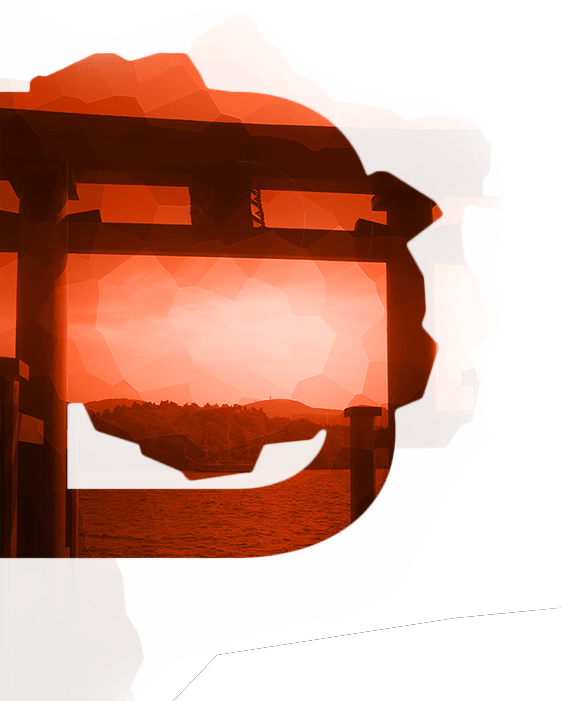
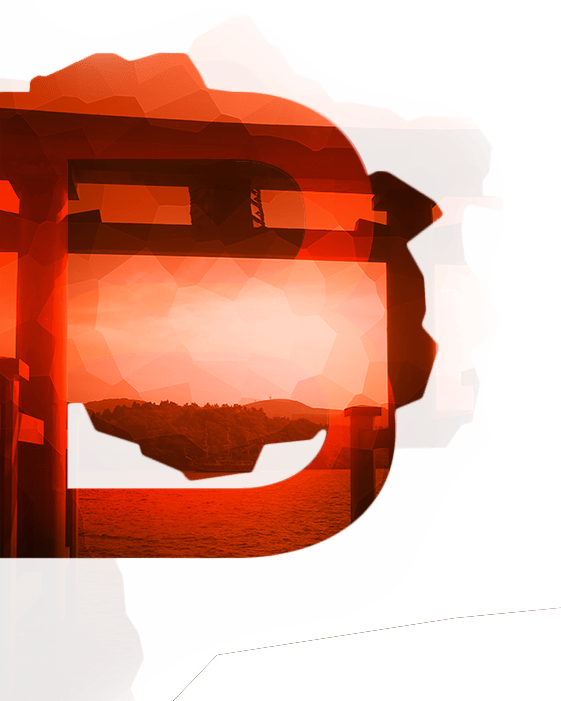
Webdev page -- first commit | header [full] overview [full] skills [base]

Changed region(s): [[0.0, 0.1797, 0.7273, 0.7789]]

diff --git a/css/style.css b/css/style.css
@@ -1,70 +1,122 @@
 body {
-  background: #232323; }
+  background: #0075a9;
+  font-family: "arkhipregular", Arial, sans-serif;
+  color: #fff; }
 
-#main .row {
+#jb .row {
   position: absolute;
   width: 100%;
   margin-top: 5rem; }
-  #main .row .main-element .half {
+  #jb .row .main-element .half {
     transition: 0.5s; }
-    #main .row .main-element .half .big-letter {
-      font-family: "arkhipregular", Arial, sans-serif;
+    #jb .row .main-element .half .big-letter {
       font-size: 62rem;
       color: #232323;
       text-shadow: 0px 0px 20px black; }
-    #main .row .main-element .half .big-j {
+    #jb .row .main-element .half .big-j {
       letter-spacing: -55px;
       transition: 0.5s; }
-    #main .row .main-element .half .big-b {
+    #jb .row .main-element .half .big-b {
       margin-left: -55px; }
-    #main .row .main-element .half .header {
-      font-family: "arkhipregular", Arial, sans-serif;
+    #jb .row .main-element .half .header {
       color: #232323;
       text-shadow: 0px 0px 20px black;
       margin-top: 60rem; }
-    #main .row .main-element .half .header--webdev {
+    #jb .row .main-element .half .header--webdev {
       padding-right: 15px; }
-    #main .row .main-element .half .header--calligrapher {
+    #jb .row .main-element .half .header--calligrapher {
       padding-left: 15px; }
-  #main .row .main-element .main-left {
+  #jb .row .main-element .main-left {
     z-index: 200;
     background-image: none;
     background-repeat: no-repeat;
     background-position: 98% 97%;
     transition: 0.5s; }
-  #main .row .main-element .main-right {
-    z-index: 250;
+  #jb .row .main-element .main-right {
+    z-index: 190;
     background-image: none;
     background-repeat: no-repeat;
     background-position: 3% 100%;
     transition: 0.5s; }
-  #main .row .main-element--hover .half .big-j {
+  #jb .row .main-element--hover .half .big-j {
     mix-blend-mode: screen;
     opacity: 0.5;
     transition: 0.5s; }
-  #main .row .main-element--hover .half .big-b {
+  #jb .row .main-element--hover .half .big-b {
     mix-blend-mode: screen;
     opacity: 0.5;
     transition: 0.5s; }
-  #main .row .main-element--hover .half .header--webdev {
+  #jb .row .main-element--hover .half .header--webdev {
     color: #0075a9;
     transition: 0.5s; }
-  #main .row .main-element--hover .half .header--calligrapher {
+  #jb .row .main-element--hover .half .header--calligrapher {
     color: #dc4716;
     transition: 0.5s; }
-  #main .row .main-element--hover .main-left {
+  #jb .row .main-element--hover .main-left {
     background-image: url("img/j.png");
     transition: 0.5s; }
-  #main .row .main-element--hover .main-right {
+  #jb .row .main-element--hover .main-right {
     background-image: url("img/b.png");
     background-repeat: no-repeat;
     background-position: 3% 100%;
     transition: 0.5s; }
-  #main .row .main-element--click .half .big-j {
+  #jb .row .main-element--click .half .big-j {
     mix-blend-mode: overlay;
     opacity: 0.8;
     transition: 0.5s; }
-  #main .row .main-element--click .half .big-b {
+  #jb .row .main-element--click .half .big-b {
     mix-blend-mode: overlay;
     opacity: 0.8;
     transition: 0.5s; }
+
+#header {
+  background-image: url("img/header_pic.jpg");
+  background-repeat: no-repeat;
+  background-size: 100% auto;
+  background-attachment: fixed;
+  height: 1300px; }
+  #header .header-top {
+    background-image: url("img/header_bg.png");
+    background-repeat: no-repeat;
+    background-size: 100% auto;
+    height: 60vh; }
+    #header .header-top--left .text-center {
+      padding-top: 10%; }
+    #header .header-top--middle {
+      padding-top: 15px; }
+      #header .header-top--middle-avatar {
+        margin: auto;
+        width: 100%; }
+    #header .header-top--right .text-center {
+      padding-top: 9%; }
+
+#overview {
+  margin-top: -500px;
+  padding-top: 1000px;
+  min-height: 2000px;
+  background: none;
+  background-image: url("img/overview_bg.png");
+  background-repeat: no-repeat;
+  background-size: 100% auto; }
+  #overview .overview-text h2 {
+    font-size: 7rem;
+    padding: 25px 0; }
+  #overview .overview-text p {
+    font-size: 2rem; }
+
+#skills {
+  min-height: 3000px;
+  background-image: url("img/skills_bg.jpg");
+  background-repeat: no-repeat;
+  background-size: 100% auto;
+  background-position: bottom; }
+  #skills .skills-header h2 {
+    font-size: 10rem; }
+
+.separator {
+  height: 20px;
+  width: 100%;
+  background-image: url("img/separator.png");
+  background-repeat: no-repeat;
+  background-position: center;
+  margin: 75px 0; }

diff --git a/webdev.html b/webdev.html
@@ -1,0 +1,90 @@
+<!DOCTYPE html>
+<html>
+  <head>
+    <meta charset="utf-8">
+    <meta http-equiv="X-UA-Compatible" content="IE=edge">
+    <meta name="viewport" content="width=device-width, initial-scale=1">
+    <title> JB </title>
+
+    <!-- live.js -->
+    <script src="live.js"></script>
+
+    <!-- Bootstrap CSS -->
+    <link rel="stylesheet" href="css/bootstrap.min.css" integrity="sha384-BVYiiSIFeK1dGmJRAkycuHAHRg32OmUcww7on3RYdg4Va+PmSTsz/K68vbdEjh4u" crossorigin="anonymous">
+    <!-- Optional theme -->
+    <link rel="stylesheet" href="css/bootstrap-theme.min.css" integrity="sha384-rHyoN1iRsVXV4nD0JutlnGaslCJuC7uwjduW9SVrLvRYooPp2bWYgmgJQIXwl/Sp" crossorigin="anonymous">
+    <!-- Arkhip font -->
+    <link rel="stylesheet" href="fonts/arkhip/arkhip.css" media="screen" title="no title" charset="utf-8">
+    <!-- Core style -->
+    <link rel="stylesheet" href="css/style.css" media="screen" title="no title" charset="utf-8">
+
+  </head>
+  <body>
+
+
+    <section id="header" class="container-fluid">
+      <div class="row header-top">
+        <div class="col-sm-5 col-md-5 header-top--left">
+          <h1 class="text-center">Jakub Bujko</h1>
+        </div>
+        <div class="col-sm-2 col-md-2 header-top--middle">
+          <img src="css/img/qba_av.jpg" class="header-top--middle-avatar" alt="me!" />
+        </div>
+        <div class="col-sm-5 col-md-5 header-top--right">
+          <h2 class="text-center">
+            Web Developer<br>
+            Designer
+          </h2>
+        </div>
+      </div>
+    </section>
+    <section id="overview" class="container-fluid">
+      <div class="row">
+        <div class="col-sm-10 col-md-8 col-sm-offset-1 col-md-offset-2 overview-text">
+          <h2 class="text-left">
+            The Beauty of Code
+          </h2>
+          <p>
+            Lorem ipsum dolor sit amet, consectetur adipisicing elit, sed do eiusmod tempor incididunt ut labore et dolore magna aliqua. Ut enim ad minim veniam, quis nostrud exercitation ullamco laboris nisi ut aliquip ex ea commodo consequat. Duis aute irure dolor in reprehenderit in voluptate velit esse cillum dolore eu fugiat nulla pariatur. Excepteur sint occaecat cupidatat non proident, sunt in culpa qui officia deserunt mollit anim id est laborum. <br><br>
+            Lorem ipsum dolor sit amet, consectetur adipisicing elit, sed do eiusmod tempor incididunt ut labore et dolore magna aliqua. Ut enim ad minim veniam, quis nostrud exercitation ullamco laboris nisi ut aliquip ex ea commodo consequat. Duis aute irure dolor in reprehenderit in voluptate velit esse cillum dolore eu fugiat nulla pariatur. Excepteur sint occaecat cupidatat non proident, sunt in culpa qui officia deserunt mollit anim id est laborum. <br><br>
+            Lorem ipsum dolor sit amet, consectetur adipisicing elit, sed do eiusmod tempor incididunt ut labore et dolore magna aliqua. Ut enim ad minim veniam, quis nostrud exercitation ullamco laboris nisi ut aliquip ex ea commodo consequat. Duis aute irure dolor in reprehenderit in voluptate velit esse cillum dolore eu fugiat nulla pariatur. Excepteur sint occaecat cupidatat non proident, sunt in culpa qui officia deserunt mollit anim id est laborum.
+          </p>
+          <div class="separator"></div>
+        </div>
+      </div>
+    </section>
+    <section id="skills" class="container-fluid">
+      <div class="row skills-header">
+        <div class="col-sm-10 col-sm-offset-1 col-md-8 col-md-offset-2">
+
+          <h2 class="text-center">Skills</h2>
+        </div>
+      </div>
+      <div class="row skills-first">
+
+      </div>
+      <div class="row skills-second">
+
+      </div>
+    </section>
+
+
+
+
+
+
+
+
+
+
+
+  </body>
+
+  <!-- jQuery -->
+  <script src="https://ajax.googleapis.com/ajax/libs/jquery/1.12.4/jquery.min.js"></script>
+  <!-- Bootstrap JS -->
+  <script src="js/bootstrap.min.js" integrity="sha384-Tc5IQib027qvyjSMfHjOMaLkfuWVxZxUPnCJA7l2mCWNIpG9mGCD8wGNIcPD7Txa" crossorigin="anonymous"></script>
+  <!-- Main JS -->
+  <script src="js/script.js"></script>
+
+</html>

diff --git a/sass/style.scss b/sass/style.scss
@@ -1,15 +1,20 @@
 $arkhip: 'arkhipregular', Arial, sans-serif;
 $big-text: 62rem;
+$header: 10rem;
+$subheader: 7rem;
+$focus-text: 2rem;
 $base-text-shadow: 0px 0px 20px rgba(0, 0, 0, 1);
 $base-grey: #232323;
 $base-blue: #0075a9;
 $base-red: #dc4716;
 
 body {
-  background: $base-grey;
+  background: $base-blue;
+  font-family: $arkhip;
+  color: #fff;
 }
 
-#main {
+#jb {
   .row{
     position: absolute;
     width: 100%;
@@ -18,7 +23,6 @@ body {
       .half {
         transition: 0.5s;
         .big-letter {
-          font-family: $arkhip;
           font-size: $big-text;
           color: $base-grey;
           text-shadow: $base-text-shadow;
@@ -31,7 +35,6 @@ body {
           margin-left: -55px;
         }
         .header {
-          font-family: $arkhip;
           color: $base-grey;
           text-shadow: $base-text-shadow;
           margin-top: 60rem;
@@ -51,7 +54,7 @@ body {
         transition: 0.5s;
       }
       .main-right {
-        z-index: 250;
+        z-index: 190;
         background-image: none;
         background-repeat: no-repeat;
         background-position: 3% 100%;
@@ -106,4 +109,78 @@ body {
       }
     }
   }
+}
+
+#header {
+  background-image: url('img/header_pic.jpg');
+  background-repeat: no-repeat;
+  background-size: 100% auto;
+  background-attachment: fixed;
+  height: 1300px;
+  .header-top {
+    background-image: url('img/header_bg.png');
+    background-repeat: no-repeat;
+    background-size: 100% auto;
+    height: 60vh;
+    &--left {
+      .text-center {
+        padding-top: 10%;
+      }
+    }
+    &--middle {
+      padding-top: 15px;
+      &-avatar {
+        margin: auto;
+        width: 100%;
+      }
+    }
+    &--right {
+      .text-center {
+        padding-top: 9%;
+      }
+    }
+  }
+}
+
+#overview {
+  margin-top: -500px;
+  padding-top: 1000px;
+  min-height: 2000px;
+  background: none;
+  background-image: url('img/overview_bg.png');
+  background-repeat: no-repeat;
+  background-size: 100% auto;
+  .overview-text {
+    h2 {
+      font-size: $subheader;
+      padding: 25px 0;
+    }
+    p {
+      font-size: $focus-text;
+    }
+  }
+}
+
+#skills {
+  min-height: 3000px;
+  background-image: url('img/skills_bg.jpg');
+  background-repeat: no-repeat;
+  background-size: 100% auto;
+  background-position: bottom;
+  .skills-header {
+    h2 {
+      font-size: $header;
+    }
+  }
+}
+
+
+
+.separator {
+  height: 20px;
+  width: 100%;
+  background-image: url('img/separator.png');
+  background-repeat: no-repeat;
+  background-position: center;
+  margin: 75px 0;
 }

diff --git a/index.html b/index.html
@@ -7,7 +7,7 @@
     <title> JB </title>
 
     <!-- live.js -->
-    <!-- <script src="live.js"></script> -->
+    <script src="live.js"></script>
 
     <!-- Bootstrap CSS -->
     <link rel="stylesheet" href="css/bootstrap.min.css" integrity="sha384-BVYiiSIFeK1dGmJRAkycuHAHRg32OmUcww7on3RYdg4Va+PmSTsz/K68vbdEjh4u" crossorigin="anonymous">
@@ -22,7 +22,7 @@
   <body>
 
 
-    <section id="main" class="container-fluid">
+    <section id="jb" class="container-fluid">
       <div class="row">
         <div class="col-xs-6 col-sm-6 col-md-6 col-lg-6 main-element">
           <div class="row half main-left">
